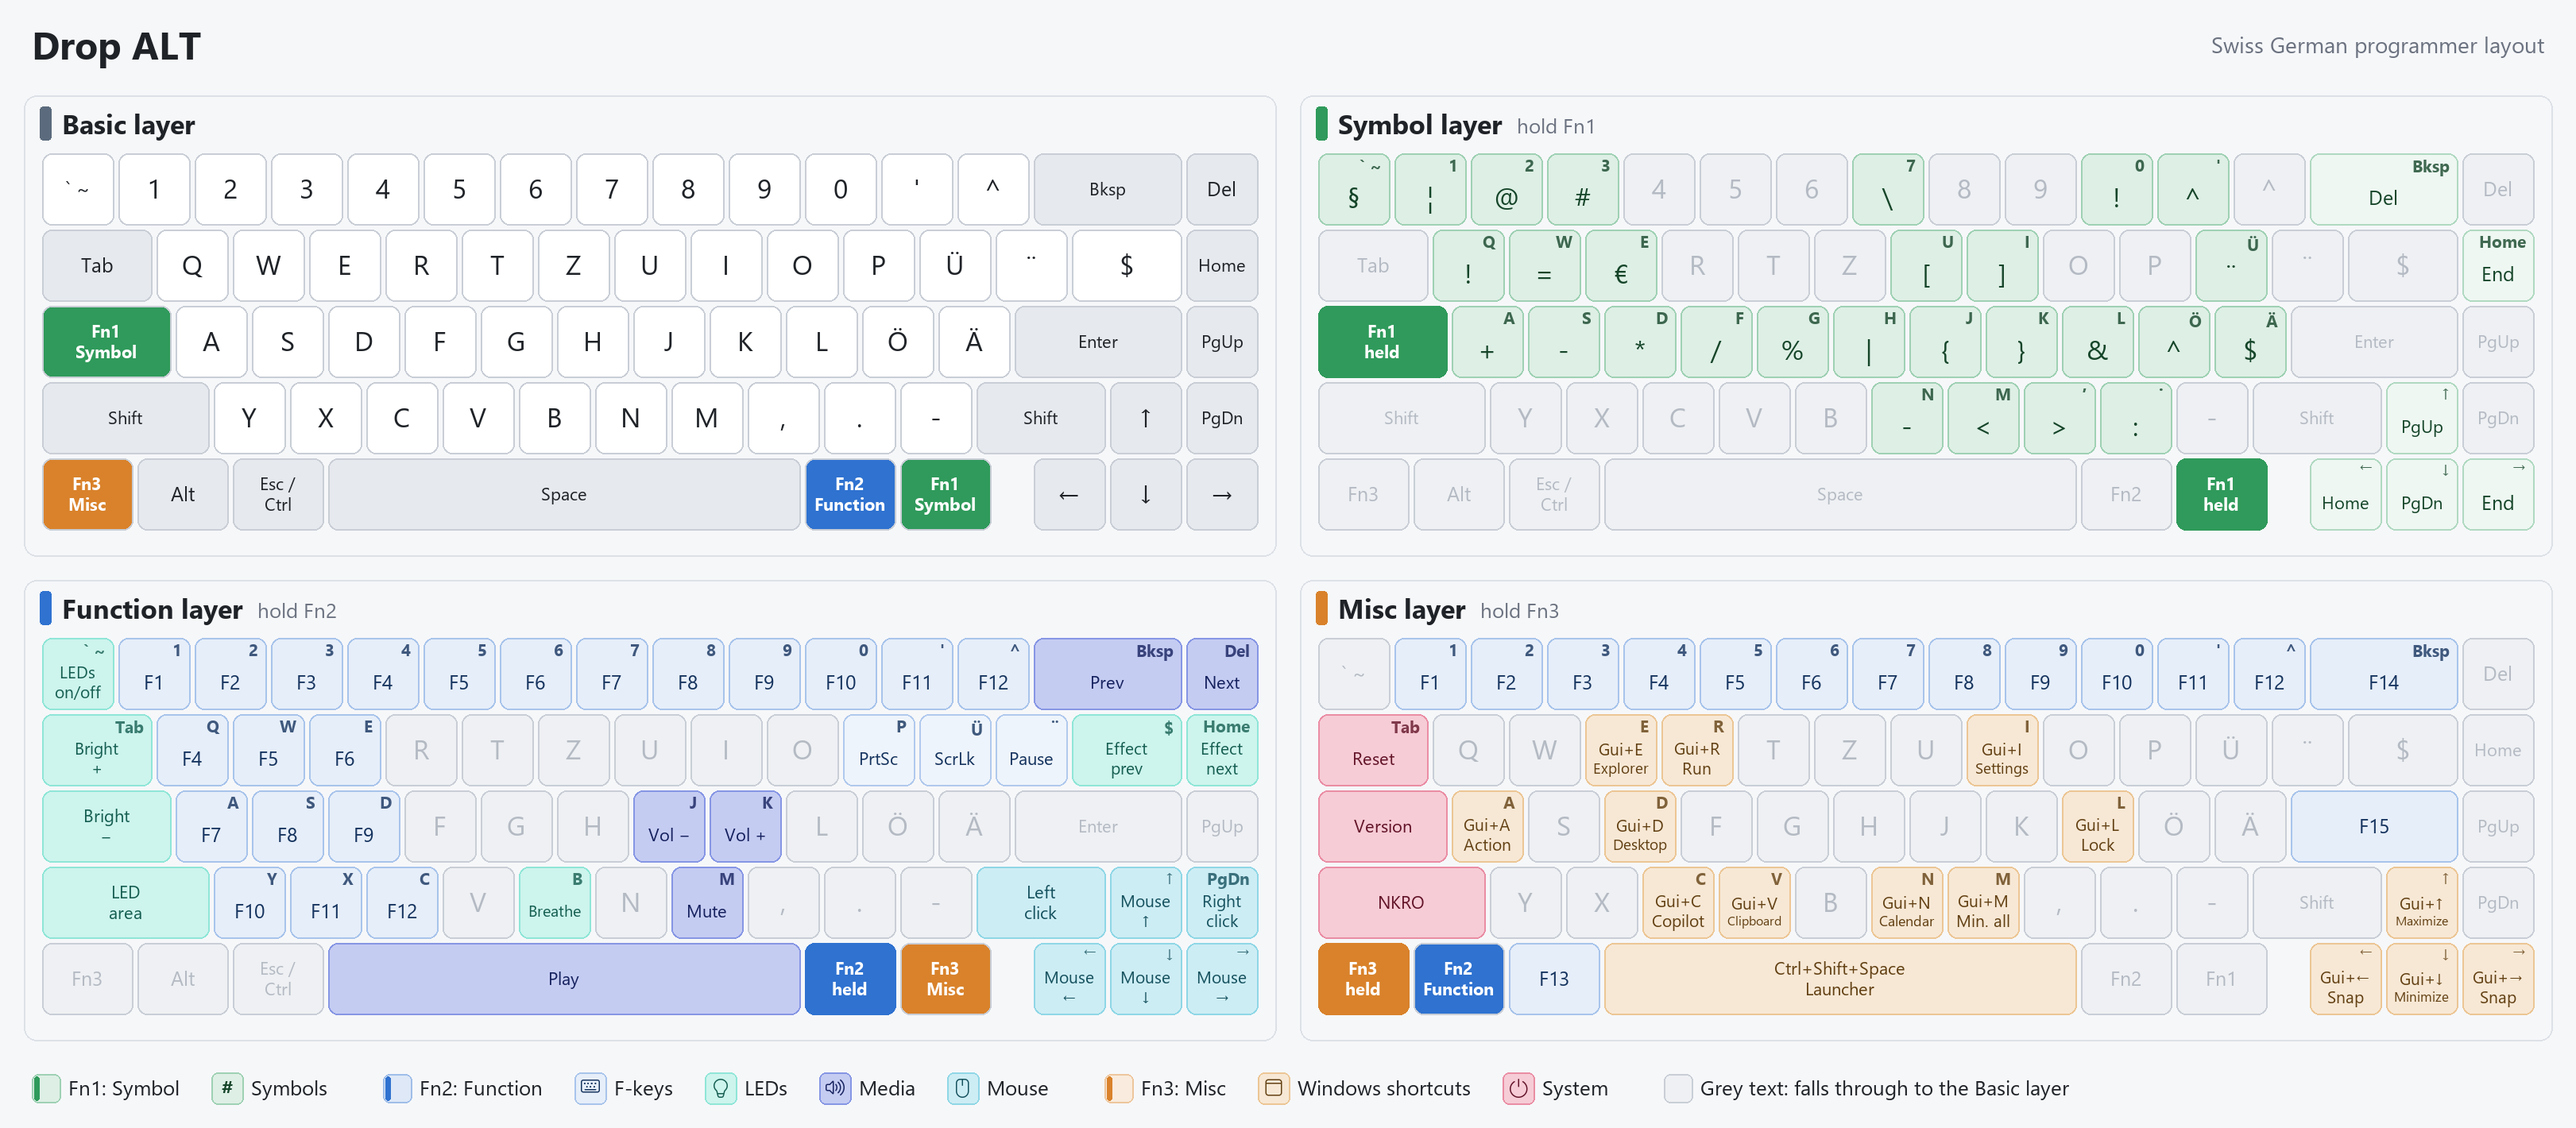
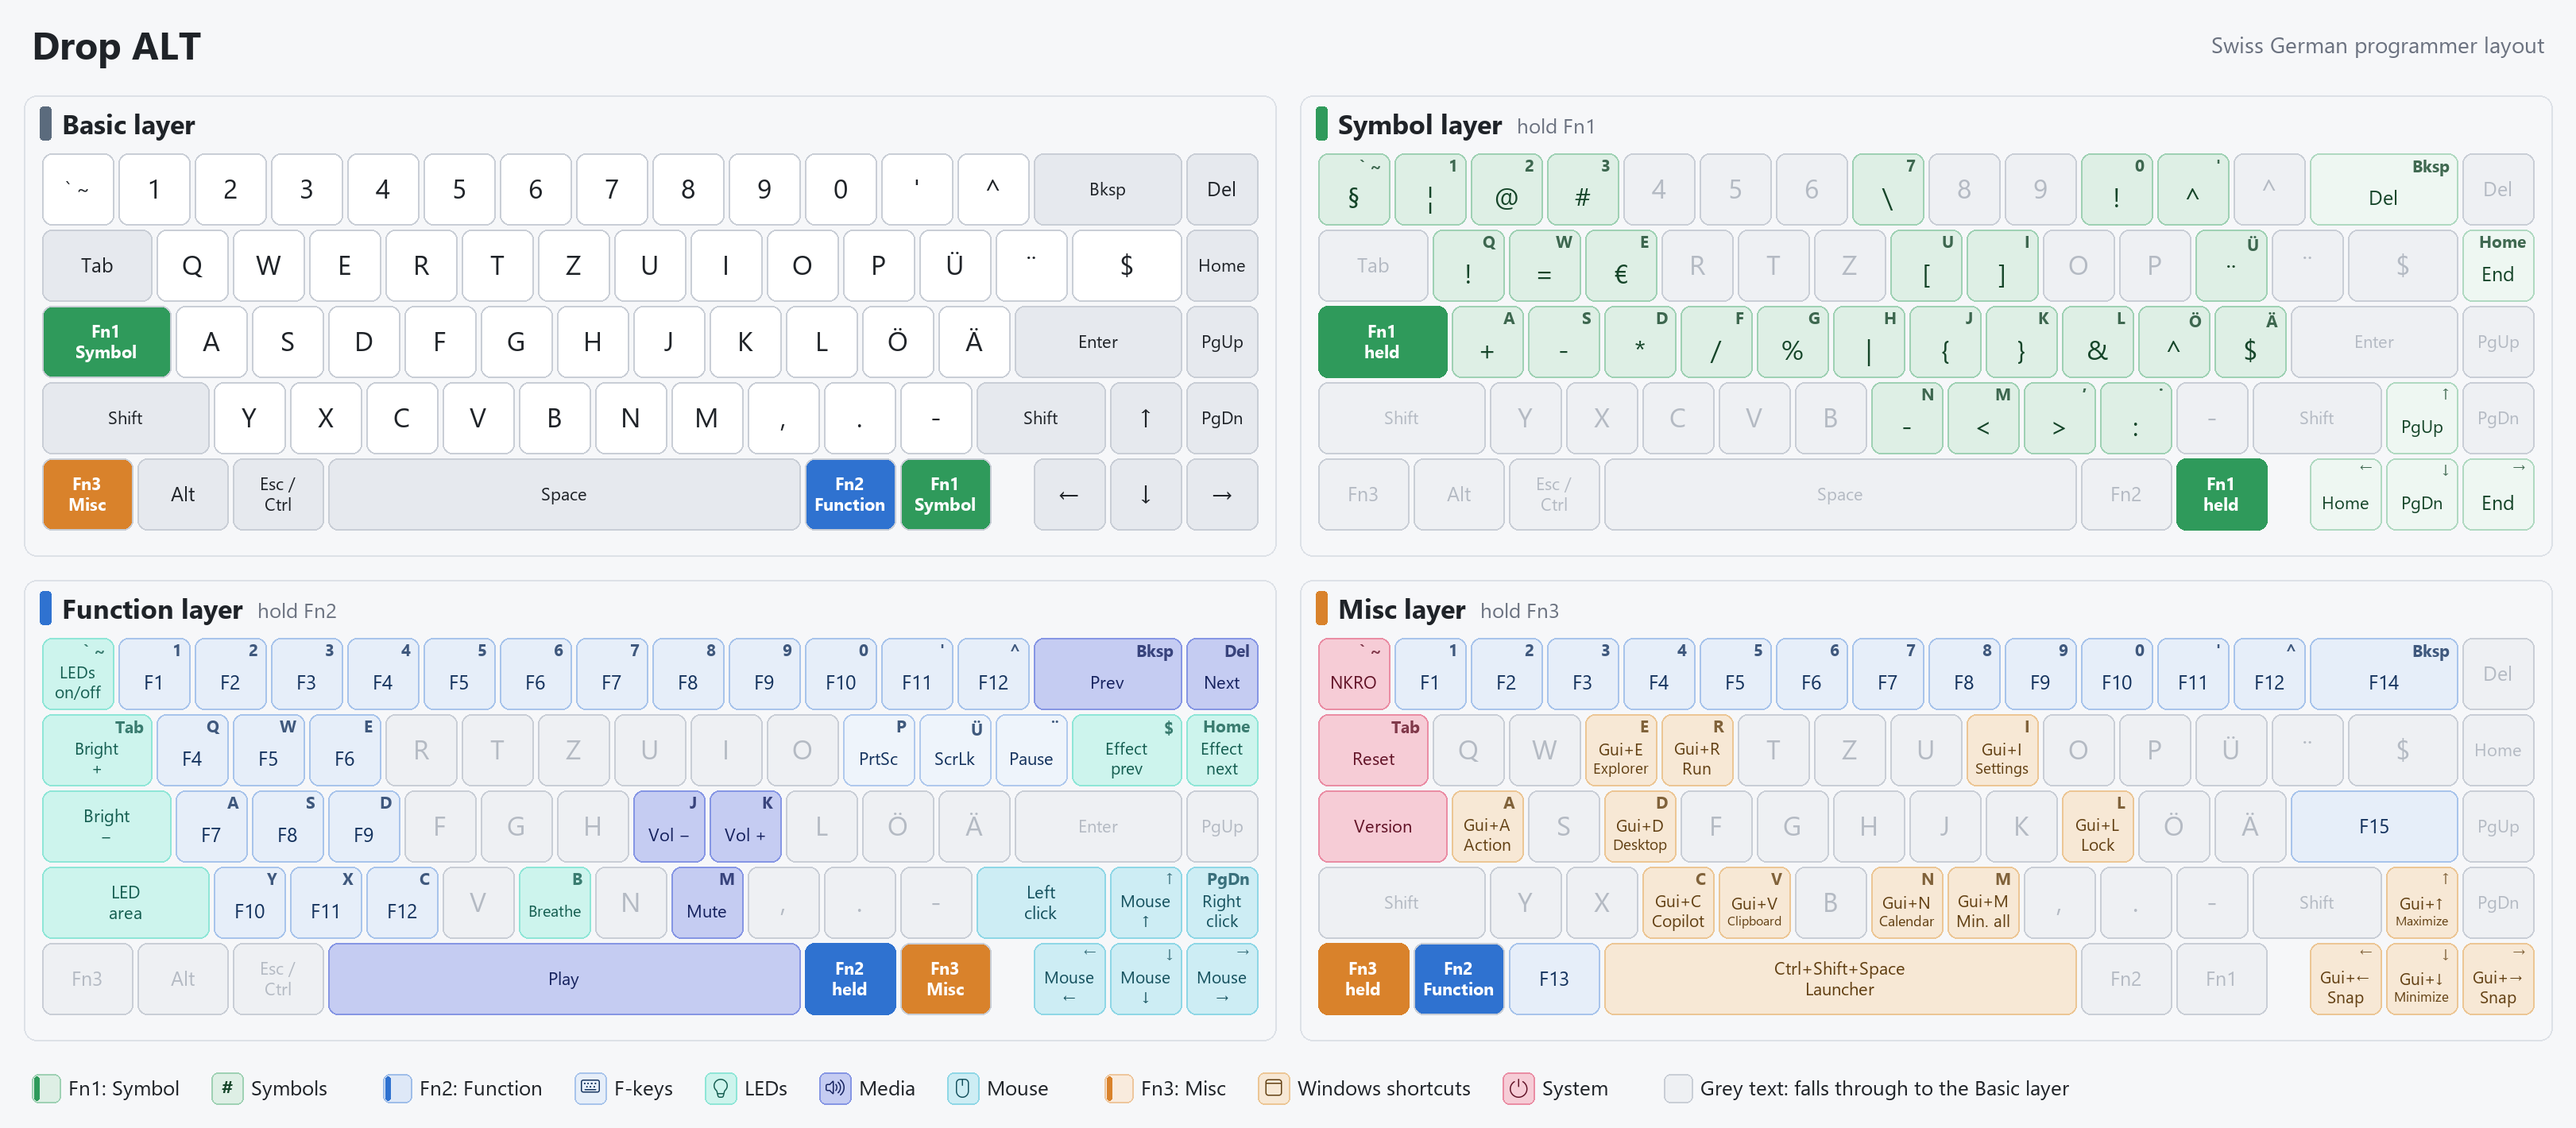
Move NKRO off the Drop ALT's Misc-layer Shift
The Shift key must stay Shift on the Misc layer for Shift+Win+Left/Right.
NKRO goes to the ` key instead, still with Reset and Version in the
left column.

Changed region(s): [[0.4985, 0.7437, 0.5919, 0.8366], [0.4985, 0.5577, 0.5608, 0.6507]]

diff --git a/keyboards/massdrop/alt/keymaps/swissgerman_programmer/keymap.c b/keyboards/massdrop/alt/keymaps/swissgerman_programmer/keymap.c
@@ -75,22 +75,22 @@ const uint16_t PROGMEM keymaps[][MATRIX_ROWS][MATRIX_COLS] = {
 
 /* Misc layer
  * ,-----------------------------------------------------------------------------------------------.
- * |     |  F1 |  F2 |  F3 |  F4 |  F5 |  F6 |  F7 |  F8 |  F9 | F10 | F11 | F12 |    F14    |     |
+ * | NKRO|  F1 |  F2 |  F3 |  F4 |  F5 |  F6 |  F7 |  F8 |  F9 | F10 | F11 | F12 |    F14    |     |
  * |-----------------------------------------------------------------------------------------------|
  * | Reset  |     |     |Gui+E|Gui+R|     |     |     |Gui+I|     |     |     |     |        |     |
  * |-----------------------------------------------------------------------------------------------|
  * | Vrsn     |Gui+A|     |Gui+D|     |     |     |     |     |Gui+L|     |     |    F15     |     |
  * |-----------------------------------------------------------------------------------------------|
- * | NKRO        |     |     |Gui+C|Gui+V|     |Gui+N|Gui+M|     |     |     |         |Gui+↑|     |
+ * |             |     |     |Gui+C|Gui+V|     |Gui+N|Gui+M|     |     |     |         |Gui+↑|     |
  * |-----------------------------------------------------------------------------------------------|
  * |      | Fn2  | F13  |              Launcher               |      |      |    |Gui+←|Gui+↓|Gui+→|
  * `-----------------------------------------------------------------------------------------------'
  */
 [3] = LAYOUT_65_ansi_blocker(
-    _______,    KC_F1,   KC_F2,   KC_F3,   KC_F4,   KC_F5,   KC_F6,   KC_F7,   KC_F8,   KC_F9,   KC_F10,  KC_F11,  KC_F12,  KC_F14,     _______,
+    NK_TOGG,    KC_F1,   KC_F2,   KC_F3,   KC_F4,   KC_F5,   KC_F6,   KC_F7,   KC_F8,   KC_F9,   KC_F10,  KC_F11,  KC_F12,  KC_F14,     _______,
     QK_BOOT,    _______, _______, G(CH_E), G(CH_R), _______, _______, _______, G(CH_I), _______, _______, _______, _______, _______,    _______,
     VRSN,       G(CH_A), _______, G(CH_D), _______, _______, _______, _______, _______, G(CH_L), _______, _______,          KC_F15,     _______,
-    NK_TOGG,    _______, _______, G(CH_C), G(CH_V), _______, G(CH_N), G(CH_M), _______, _______, _______, _______,          G(KC_UP),   _______,
+    _______,    _______, _______, G(CH_C), G(CH_V), _______, G(CH_N), G(CH_M), _______, _______, _______, _______,          G(KC_UP),   _______,
     _______,    MISC_FN2, KC_F13,                            LAUNCHER,                           _______, _______, G(KC_LEFT), G(KC_DOWN), G(KC_RIGHT)
 ),
 
